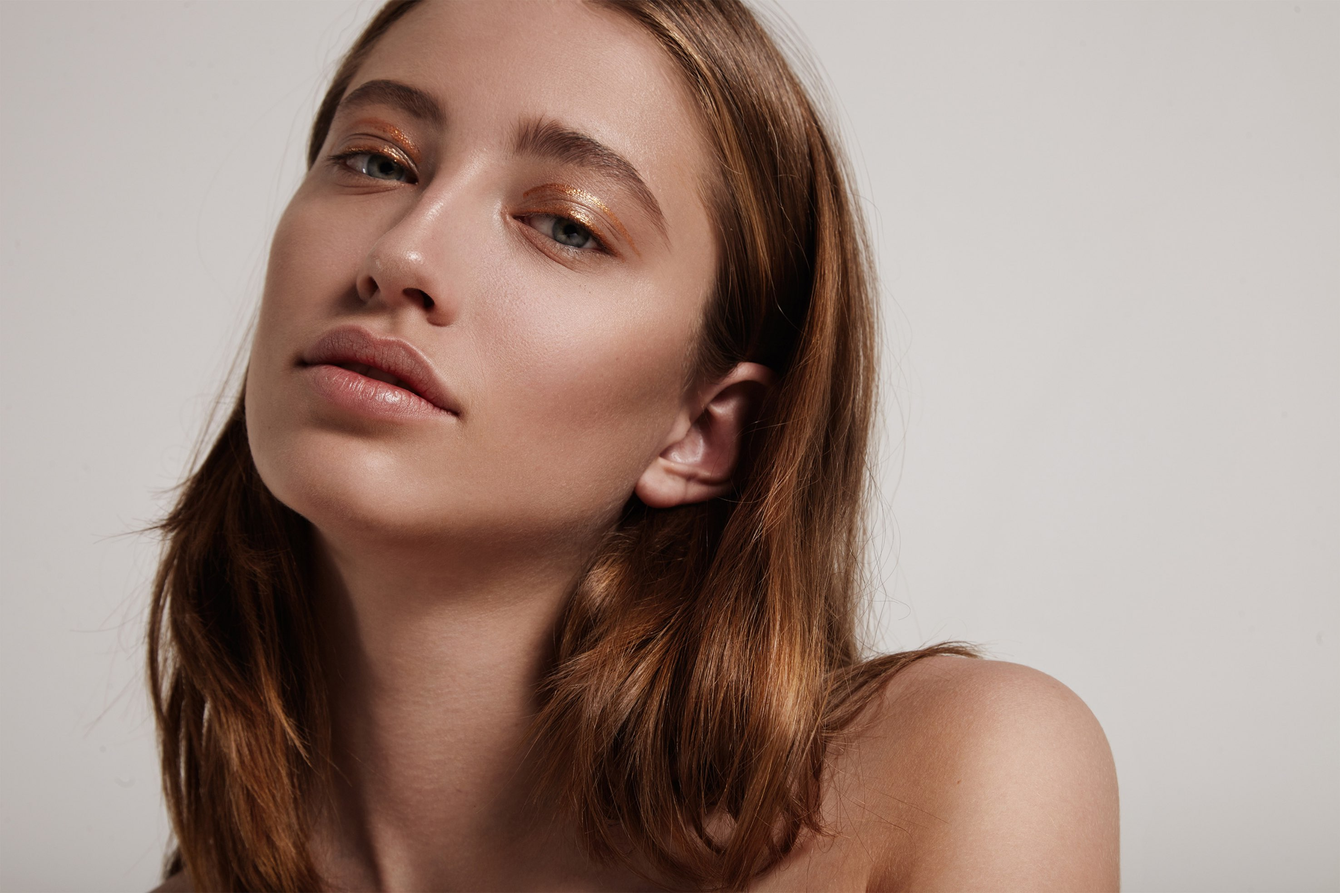
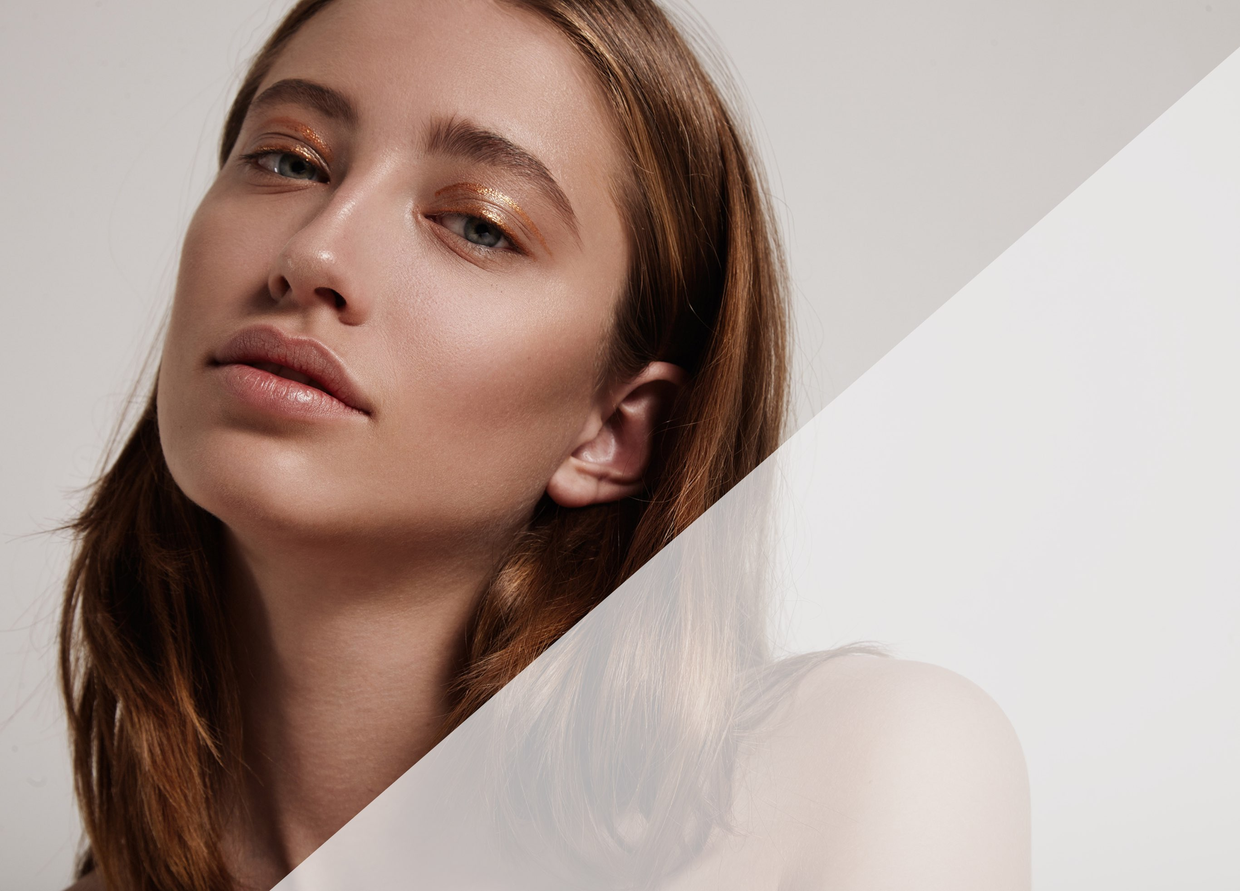
face and event sections are complete

diff --git a/css/theme.min.css b/css/theme.min.css
@@ -1,3 +1,3 @@
-@import "https://use.fontawesome.com/releases/v5.4.1/css/all.css";@import url("https://fonts.googleapis.com/css?family=Lato:300,300i,400,400i,700,700i|Playfair+Display:400,400i,700,700i&display=swap");.color-main{color:#CBA170}.color-dark{color:#333}.color-white{color:#fff}.color-black{color:#000}h1,h2,h4,h5,h6{letter-spacing:0.1rem}h1{font-family:"Playfair Display",serif;font-size:4.0625rem;line-height:4.0625rem;font-weight:400}h2{font-family:"Playfair Display",serif;font-size:3.75rem;line-height:3.75rem;font-weight:400}h3{font-family:"Playfair Display",serif;font-size:2.8125rem;line-height:2.8125rem;font-weight:400}h4,h5,h6{font-family:"Playfair Display",serif}.footer-header{font-family:"Playfair Display",serif;font-size:1rem;line-height:1.5rem;font-weight:600}.body-copy{font-size:1rem;line-height:calc(1rem * 1.5);font-family:"Lato",sans-serif;font-weight:300}.body-copy.is-semibold{font-weight:600}.body-copy.is-bold{font-weight:700}.body-copy.is-italic{font-style:italic}.small-copy{color:#7c7c7c;font-size:16px;line-height:calc(16px * 2);font-family:"Lato",sans-serif;font-weight:300}.lead-copy{font-family:"Lato",sans-serif;font-size:1.25rem;line-height:calc(1.25rem * 1.5);font-weight:300}.wrap-75{width:100%;max-width:650px;margin:0 auto}input{font-family:"Lato",sans-serif;font-weight:300}@media screen and (max-width: 768px){h1{font-size:200% !important}h1 .subscript{font-size:1.2rem}h2{font-size:200%}h1{line-height:2rem}h2,h3{line-height:2rem}}@keyframes menu-fadein{from{display:none;opacity:0}to{display:grid;opacity:1}}.topbar{width:100%;height:35px;height:auto;background-color:#fff}.topbar .containerish{display:grid;grid-template-rows:auto;grid-template-columns:1fr;padding:.2rem 1rem}.topbar .containerish .topbar-link{font-family:"Lato",sans-serif;font-size:15px;font-weight:300;color:#333}.topbar .containerish .topbar-link:hover{color:#CBA170;text-decoration:none}.topbar .containerish .topbar-link-small{font-family:"Lato",sans-serif;font-size:13px;font-weight:300;color:#000}.topbar .containerish .topbar-link-small:hover{color:#CBA170;text-decoration:none}.topbar .containerish .social-link{color:#000;margin-right:0.5rem}.topbar .containerish .social-link:hover{color:#CBA170;text-decoration:none}.topbar .containerish .social-link p{display:inline-block;line-height:0;margin:0;margin-left:0.2rem}.topbar .containerish .social-link:last-child{margin-right:0 !important}.topbar .containerish .col-left{display:none}.topbar .containerish .col-left p{font-family:"Lato",sans-serif;font-size:13px;font-weight:700;margin-bottom:0}.topbar .containerish .col-right{display:flex;justify-content:center}.topbar .containerish .topbar-link{margin-right:1rem}.topbar .containerish .topbar-link-small{margin-right:1rem}.topbar .containerish .topbar-link:last-child{margin-right:0 !important;display:inline-block}.topbar .containerish .topbar-link-small:last-child{margin-right:0 !important;display:inline-block}.ui-btn{font-family:"Lato",sans-serif;font-size:0.9375rem;font-weight:700;font-style:normal;letter-spacing:0.05rem;line-height:1rem;padding:0.6rem 0rem;display:inline-flex;justify-content:center;align-items:center;width:100%;margin-bottom:0.5rem;transition:all 0.3s ease-in-out}.ui-btn-main{background-color:#CBA170;border:1px solid #CBA170;color:#fff}.ui-btn-main:hover{color:#fff;border:1px solid #d9ba95;background-color:#d9ba95;text-decoration:none}.ui-btn-main-ol{background-color:transparent;border:1px solid #CBA170;color:#CBA170}.ui-btn-main-ol:hover{color:#fff;border:1px solid #d9ba95;background-color:#d9ba95;text-decoration:none}.ui-btn-dark{background-color:#333;border:1px solid #333;color:#fff}.ui-btn-dark:hover{color:#fff;background-color:#595959;border:1px solid #595959;text-decoration:none}.ui-btn-dark-ol{background-color:transparent;border:1px solid #333;color:#333}.ui-btn-dark-ol:hover{color:#fff;background-color:#595959;border:1px solid #595959;text-decoration:none}.ui-btn-white{background-color:#fff;border:1px solid #fff;color:#CBA170}.ui-btn-white:hover{color:#CBA170;background-color:#d9d9d9;border:1px solid #d9d9d9;text-decoration:none}.ui-btn-white-ol{background-color:transparent;border:1px solid #fff;color:#fff}.ui-btn-white-ol:hover{color:#CBA170;background-color:#d9d9d9;border:1px solid #d9d9d9;text-decoration:none}.ui-btn-group .ui-btn:not(:last-child){margin-right:0.85rem}.section-learn-more{font-family:"Playfair Display",serif;font-size:20px;font-weight:600;color:#333;transition:all 0.3s ease-in-out}.section-learn-more::after{content:url("../img/right-arrow.png");padding-left:2rem}.section-learn-more:hover{color:#CBA170;text-decoration:none;transition:all 0.3s ease-in-out}.section-links{list-style-type:none;margin:0;padding:0}.section-links li{display:inline-block;margin-right:1rem;margin-bottom:1rem}.section-link{font-family:"Playfair Display",serif;font-size:20px;font-weight:300;color:#333;margin-bottom:1rem;transition:all 0.2s ease-in-out}.section-link::after{content:url("../img/chevron.png");padding-left:10px}.section-link:hover{color:#CBA170;text-decoration:none;transition:all 0.2s ease-in-out}.footer-link{font-family:"Lato",sans-serif;font-size:16px;font-weight:300;color:#333;transition:all 0.3s ease-in-out}.footer-link:hover{color:#CBA170;text-decoration:none;transition:all 0.3s ease-in-out}.img-border{border:5px solid #fff}.img-shadow{box-shadow:0px 0px 10px rgba(0,0,0,0.08)}.img-round{border-radius:10px}.woman-img{width:100%;height:auto;max-width:400px}.containerish{width:100%;max-width:1300px;height:auto;padding:0}.form-control:focus{border-color:#333;box-shadow:inset 0 1px 1px rgba(51,51,51,0.075),0 0 8px rgba(51,51,51,0.6)}.hero{background:url("../../img/hero-section-bg@2x.jpg") center/cover;height:calc(100vh - 35px);max-height:800px}.hero .header .containerish{display:grid;grid-template-columns:1fr 1fr;align-items:center;padding:1rem}.hero .header .containerish .col-left{display:none}.hero .header .containerish .col-mid{display:flex;justify-content:center}.hero .header .containerish .col-mid .header-logo{width:202.4px;height:100.02px}.hero .header .containerish .col-right .menu-toggle{display:flex;justify-content:flex-end;align-items:center;cursor:pointer}.hero .header .containerish .col-right .menu-toggle .menu-label{padding-bottom:0;margin-bottom:0;margin-right:.8rem;font-family:"Lato",sans-serif;font-size:14px}.hero .header .containerish .col-right .menu-toggle .menu-toggle-btn{width:40px;height:auto}.hero .hero-cta{margin-top:1rem;background:url("../../img/hero-bg@2x.jpg") center/cover;padding:40px 20px 20px 20px;height:75vh;max-height:570px;display:flex;flex-direction:column;justify-content:flex-end;align-items:center}.hero .hero-cta .section-info{max-width:930px}.face-event{position:relative}.face-event .face{background:#333;position:relative}.face-event .face .containerish{padding:40px 20px;display:grid;grid-template-columns:1fr}.face-event .face .containerish .section-wrapper{display:grid;grid-template-columns:1fr 1fr;grid-template-rows:auto;grid-gap:1rem}.face-event .face .containerish .section-wrapper .section-info{height:500px;background:#fff;grid-column:1 / -1;position:relative;display:flex;flex-direction:column;justify-content:center;padding:4rem 2rem}.face-event .face .containerish .section-wrapper .section-info .top-right-angle{position:absolute;top:5px;right:5px;height:25px;width:25px}.face-event .face .containerish .section-wrapper .treatment-menu{display:none}.face-event .face .containerish .section-wrapper .info-links{position:absolute;bottom:0;left:0;width:100%}.face-event .face .containerish .section-wrapper .info-links .info-link{background:#fff;color:#CBA170;font-family:"Lato",sans-serif;font-size:14px;font-weight:500;padding:.5rem 2rem;display:block;width:100%;transition:all .3s ease-in-out}.face-event .face .containerish .section-wrapper .info-links .info-link:hover{background:#e6d2bb;color:#fff;text-decoration:none;transition:all .3s ease-in-out}.face-event .face .containerish .section-wrapper .info-links .info-link-inverted{background:#CBA170;color:#fff;font-family:"Lato",sans-serif;font-size:14px;font-weight:500;padding:.5rem 2rem;display:block;width:100%;transition:all .3s ease-in-out}.face-event .face .containerish .section-wrapper .info-links .info-link-inverted:hover{background:#e6d2bb;color:#fff;text-decoration:none;transition:all .3s ease-in-out}footer .footer1{min-height:300px;padding:40px 20px;background:url("../img/footer-bg@2x.jpg") center/cover}footer .footer1 .containerish{display:flex;flex-direction:column;align-items:center;justify-content:center}footer .footer1 .containerish .footer-nav{width:100%;display:flex;flex-direction:column;align-items:center;margin-bottom:2rem}footer .footer1 .containerish .footer-nav .footer-nav-link{font-family:"Lato",sans-serif;color:#333;font-size:16px;font-weight:300}footer .footer1 .containerish .footer-nav .footer-nav-link:hover{color:#CBA170;text-decoration:none}footer .footer1 .containerish .contact-info{margin-bottom:2rem}footer .footer1 .containerish .contact-info .small-copy{text-align:center;line-height:3rem}footer .footer1 .containerish .contact-info .small-copy a{color:#333}footer .footer1 .containerish .contact-info .small-copy:nth-child(2){color:#333;text-align:center}footer .footer1 .containerish .footer-logo{max-width:40px;height:auto;opacity:0.6;margin-bottom:2rem}footer .footer1 .containerish h3{margin-bottom:2rem}footer .footer1 .containerish .footer-form{width:100%;display:grid;grid-row-gap:0.5rem}footer .footer1 .containerish .footer-form input{width:100%}footer .footer1 .containerish .footer-form .ui-btn{justify-self:center}footer .footer1 ::placeholder{letter-spacing:0.05rem;margin-left:0.2rem;padding-left:0.6rem;color:rgba(0,0,0,0.8);font-size:12px}footer .footer2{min-height:150px;display:flex;flex-direction:column;align-items:center;justify-content:center;background:#333;padding:1rem}footer .footer2 .social-icons{margin-bottom:2rem}footer .footer2 .social-icons .social-link{font-size:2rem;color:#CBA170;margin-right:0.5rem}footer .footer2 .social-icons .social-link:hover{color:#d2ad83;text-decoration:none}footer .footer2 .social-icons .social-link:last-child{margin-right:0}footer .footer2 .footer-small-copy{font-family:"Lato",sans-serif;font-size:13px;font-weight:300;color:#fff}footer .footer2 .footer-small-copy a{color:inherit}footer .footer2 .footer-small-copy a:hover{color:#CBA170;text-decoration:none}footer .footer2 .footer-small-copy .footer-pipe{margin:0 1rem}.breadcrumbs{background:#333;font-family:"Lato",sans-serif}.breadcrumbs a{color:#CBA170}.breadcrumbs a:hover{color:#fff}.breadcrumbs .current{color:#fff}.shareme{font-family:"Lato",sans-serif}.shareme a{color:#CBA170}.shareme a:hover{color:#333}.inner-bg{background:url("../img/inner-bg@2x.jpg");background-position:center;background-size:cover}.banner-bg{height:400px;width:100%}.archive-title{font-variant-caps:initial}.banner{background-color:#CBA170}#banner-img-wrap{height:300px;width:100%;overflow:hidden}#banner-img-wrap #banner-img{width:100%;height:auto}#postsection{padding:40px 10px}#postsection h1{color:#333;font-family:"Lato",sans-serif;font-size:3.125rem;line-height:3rem;font-weight:300;font-style:normal}#postsection h2,#postsection h3,#postsection h4,#postsection h5,#postsection h6{color:#CBA170;font-family:"Lato",sans-serif;font-size:2.1875rem;line-height:2.1875rem;font-weight:300;font-style:normal;margin-bottom:1rem}#postsection p{font-weight:300}@media screen and (min-width: 768px){#postsection{padding:80px 10px}}.pagesection h2,.pagesection h3,.pagesection h4{color:#CBA170}.pagesection p:not(a){font-weight:300;margin-bottom:1rem}.pagesection p:last-child(){margin-bottom:0}.pagesection a:not(.ui-btn){color:#CBA170}.pagesection .map-full{width:100%;height:400px}.sec-1,.sec-2,.sec-3,.sec-5,.sec-5{min-height:400px !important;padding:4rem 10px !important}img{width:100%;height:auto}.icons-topbar{width:14px;height:16px}.icons-topbar path{fill:#333}.icons-topbar:hover path{fill:#fff}.social-link-footer{width:13.13px;height:15px}.social-link-footer path{fill:#fff}.social-link-footer:hover path{fill:#fff}.social-link-share{width:14px;height:16px}.social-link-share path{fill:#CBA170}.social-link-share:hover path{fill:#333}.breadcrum-home{width:16px;height:14px}.breadcrum-home path{fill:#fff}.breadcrum-home:hover path{fill:#fff}.icon-close{width:30px;height:30px;cursor:pointer}.icon-close path{fill:#fff}#open-search{padding-right:19px}#search-overlay{display:none;background-color:rgba(255,255,255,0.85);color:#000;height:100vh;width:100%;z-index:9999999;padding:170px 60px 0;position:fixed;top:0}#search-overlay em{display:block;text-align:center;font-size:120%;margin-top:30px;color:#000}#search-overlay a{color:#000;font-weight:700}#search-overlay .form-control::-webkit-input-placeholder{color:#fff}#search-overlay .form-control::-moz-placeholder{color:#fff;opacity:1}#search-overlay .form-control:-ms-input-placeholder{color:#fff}#search-overlay .form-control:-moz-placeholder{color:#fff;opacity:1}.search-results em{display:block;text-align:center;font-size:120%;margin-bottom:60px}.pagination{display:table !important;color:#5c89a9}.pagination a{margin-right:2rem;color:#a19991}.pagination a:hover{color:#2b2b2b}.pagination .current{margin-right:2rem;color:#a19991}.pagination .dots{flex:inherit;margin-right:2rem}.alert-info{width:320px;margin:0 auto;color:#ffffff;background-color:#ff0000;border-color:#bee5eb}.alert-info ul{padding:0;margin:0}.alert-info ul li{list-style:none;padding:0}@media screen and (min-width: 576px){.ui-btn{display:inline-flex;width:auto;padding:0.8rem 1.5rem}}@media screen and (min-width: 768px){.ui-btn{display:inline-flex;width:auto}.hero .header .containerish{display:grid;grid-template-columns:1fr 1fr 1fr;align-items:flex-start}.hero .header .containerish .col-left{display:flex}.hero .header .containerish .col-left .social-link{color:#CBA170;margin-right:1rem}.hero .hero-cta{margin-top:1rem;background:url("../../img/hero-bg@2x.jpg") center/cover;padding:40px 20px 20px 20px;height:75vh;max-height:570px;display:flex;flex-direction:column;justify-content:flex-end;align-items:center}.face-event{position:relative}.face-event .face{background:url("../../img/face-img-1@2x.jpg") center/cover}.face-event .face .containerish{padding:40px 20px;display:grid;grid-template-columns:1fr 1fr}.face-event .face .containerish .section-wrapper{display:grid;grid-template-columns:1fr 1fr;grid-template-rows:auto;grid-gap:1rem;grid-column:2}}@media screen and (min-width: 992px){.ui-btn{display:inline-flex;width:auto;max-width:220px}.containerish{width:100%;height:auto;margin:0 auto}.topbar .containerish{display:grid;grid-template-rows:auto;grid-template-columns:1fr 1fr;align-items:center}.topbar .containerish .col-left{display:flex;grid-row:1;justify-content:flex-start}.topbar .containerish .col-right{display:flex;justify-content:flex-end}.face-event{position:relative}.face-event .face{background:url("../../img/face-img-1@2x.jpg") center/cover}.face-event .face .containerish{padding:40px 20px;display:grid;grid-template-columns:1.5fr 1fr}.face-event .face .containerish .section-wrapper{display:grid;grid-template-columns:1fr 1fr;grid-template-rows:auto;grid-gap:1rem;grid-column:2}}@media screen and (min-width: 1200px){.topbar .containerish{display:grid;grid-template-rows:auto;grid-template-columns:1fr max-content 1fr;align-items:center;padding:.2rem 1rem}.topbar .containerish .col-left{display:flex;grid-row:1;grid-column:2;justify-content:flex-start}.topbar .containerish .col-right{display:flex;justify-content:flex-end;grid-column:3}.face-event{position:relative}.face-event .face{background:url("../../img/face-img-1@2x.jpg") center/cover}.face-event .face .containerish{padding:40px 20px;display:grid;grid-template-columns:1.5fr 1fr}.face-event .face .containerish .section-wrapper{display:grid;grid-template-columns:1fr 1fr;grid-template-rows:auto;grid-gap:1rem;grid-column:2}.face-event .face .containerish .section-wrapper .section-info{height:600px;padding:1rem 5rem 4rem 5rem}.face-event .face .containerish .section-wrapper .info-links .info-link{padding:.5rem 5rem}.face-event .face .containerish .section-wrapper .info-links .info-link-inverted{padding:.5rem 5rem}.face-event .face .containerish .section-wrapper .treatment-menu{background:#333;width:442px;height:auto;position:absolute;left:-400px;bottom:50px;z-index:10;display:none;opacity:0;grid-template-columns:1fr 1fr;grid-gap:1rem;padding:2rem}.face-event .face .containerish .section-wrapper .treatment-menu.show-menu{animation-name:menu-fadein;animation-duration:.2s;animation-direction:normal;animation-timing-function:ease-in-out;display:grid;opacity:1}.face-event .face .containerish .section-wrapper .treatment-menu .menu-close{color:#fff;position:absolute;top:5px;right:10px;cursor:pointer}.face-event .face .containerish .section-wrapper .treatment-menu .menu-close:hover{color:color-main}.face-event .face .containerish .section-wrapper .treatment-menu .treatment-link{display:block;font-family:"Lato",sans-serif;font-size:12px;color:#fff;margin-bottom:.3rem;padding:.3rem}.face-event .face .containerish .section-wrapper .treatment-menu .treatment-link:hover{text-decoration:none;background:#CBA170}.face-event .face .containerish .section-wrapper .treatment-menu .treatment-link::before{content:'+';color:#CBA170;margin-right:.8rem}.face-event .face .containerish .section-wrapper .treatment-menu .col-left{display:flex;flex-direction:column}.face-event .face .containerish .section-wrapper .treatment-menu .col-right{display:flex;flex-direction:column}}@media screen and (min-width: 1400px){.hero .header{padding-top:1rem}}
+@import "https://use.fontawesome.com/releases/v5.4.1/css/all.css";@import url("https://fonts.googleapis.com/css?family=Lato:300,300i,400,400i,700,700i|Playfair+Display:400,400i,700,700i&display=swap");.color-main{color:#CBA170}.color-dark{color:#333}.color-white{color:#fff}.color-black{color:#000}h1,h2,h4,h5,h6{letter-spacing:0.1rem}h1{font-family:"Playfair Display",serif;font-size:4.0625rem;line-height:4.0625rem;font-weight:400}h2{font-family:"Playfair Display",serif;font-size:3.75rem;line-height:3.75rem;font-weight:400}h3{font-family:"Playfair Display",serif;font-size:2.8125rem;line-height:2.8125rem;font-weight:400}h4,h5,h6{font-family:"Playfair Display",serif}.footer-header{font-family:"Playfair Display",serif;font-size:1rem;line-height:1.5rem;font-weight:600}.body-copy{font-size:1rem;line-height:34px;font-family:"Lato",sans-serif;font-weight:300}.body-copy.is-semibold{font-weight:600}.body-copy.is-bold{font-weight:700}.body-copy.is-italic{font-style:italic}.small-copy{color:#7c7c7c;font-size:16px;line-height:calc(16px * 2);font-family:"Lato",sans-serif;font-weight:300}.lead-copy{font-family:"Lato",sans-serif;font-size:1.25rem;line-height:calc(1.25rem * 1.5);font-weight:300}.wrap-75{width:100%;max-width:650px;margin:0 auto}input{font-family:"Lato",sans-serif;font-weight:300}@media screen and (max-width: 768px){h1{font-size:200% !important}h1 .subscript{font-size:1.2rem}h2{font-size:200%}h3{font-size:150%}h1{line-height:2rem}h2,h3{line-height:1rem}}@keyframes menu-fadein{from{display:none;opacity:0}to{display:grid;opacity:1}}.topbar{width:100%;height:35px;height:auto;background-color:#fff}.topbar .containerish{display:grid;grid-template-rows:auto;grid-template-columns:1fr;padding:.2rem 1rem}.topbar .containerish .topbar-link{font-family:"Lato",sans-serif;font-size:15px;font-weight:300;color:#333}.topbar .containerish .topbar-link:hover{color:#CBA170;text-decoration:none}.topbar .containerish .topbar-link-small{font-family:"Lato",sans-serif;font-size:13px;font-weight:300;color:#000}.topbar .containerish .topbar-link-small:hover{color:#CBA170;text-decoration:none}.topbar .containerish .social-link{color:#000;margin-right:0.5rem}.topbar .containerish .social-link:hover{color:#CBA170;text-decoration:none}.topbar .containerish .social-link p{display:inline-block;line-height:0;margin:0;margin-left:0.2rem}.topbar .containerish .social-link:last-child{margin-right:0 !important}.topbar .containerish .col-left{display:none}.topbar .containerish .col-left p{font-family:"Lato",sans-serif;font-size:13px;font-weight:700;margin-bottom:0}.topbar .containerish .col-right{display:flex;justify-content:center}.topbar .containerish .topbar-link{margin-right:1rem}.topbar .containerish .topbar-link-small{margin-right:1rem}.topbar .containerish .topbar-link:last-child{margin-right:0 !important;display:inline-block}.topbar .containerish .topbar-link-small:last-child{margin-right:0 !important;display:inline-block}.ui-btn{font-family:"Lato",sans-serif;font-size:0.9375rem;font-weight:700;font-style:normal;letter-spacing:0.05rem;line-height:1rem;padding:0.6rem 0rem;display:inline-flex;justify-content:center;align-items:center;width:100%;margin-bottom:0.5rem;transition:all 0.3s ease-in-out}.ui-btn-main{background-color:#CBA170;border:1px solid #CBA170;color:#fff}.ui-btn-main:hover{color:#fff;border:1px solid #d9ba95;background-color:#d9ba95;text-decoration:none}.ui-btn-main-ol{background-color:transparent;border:1px solid #CBA170;color:#CBA170}.ui-btn-main-ol:hover{color:#fff;border:1px solid #d9ba95;background-color:#d9ba95;text-decoration:none}.ui-btn-dark{background-color:#333;border:1px solid #333;color:#fff}.ui-btn-dark:hover{color:#fff;background-color:#595959;border:1px solid #595959;text-decoration:none}.ui-btn-dark-ol{background-color:transparent;border:1px solid #333;color:#333}.ui-btn-dark-ol:hover{color:#fff;background-color:#595959;border:1px solid #595959;text-decoration:none}.ui-btn-white{background-color:#fff;border:1px solid #fff;color:#CBA170}.ui-btn-white:hover{color:#CBA170;background-color:#d9d9d9;border:1px solid #d9d9d9;text-decoration:none}.ui-btn-white-ol{background-color:transparent;border:1px solid #fff;color:#fff}.ui-btn-white-ol:hover{color:#CBA170;background-color:#d9d9d9;border:1px solid #d9d9d9;text-decoration:none}.ui-btn-group .ui-btn:not(:last-child){margin-right:0.85rem}.section-learn-more{font-family:"Playfair Display",serif;font-size:20px;font-weight:600;color:#333;transition:all 0.3s ease-in-out}.section-learn-more::after{content:url("../img/right-arrow.png");padding-left:2rem}.section-learn-more:hover{color:#CBA170;text-decoration:none;transition:all 0.3s ease-in-out}.section-links{list-style-type:none;margin:0;padding:0}.section-links li{display:inline-block;margin-right:1rem;margin-bottom:1rem}.section-link{font-family:"Playfair Display",serif;font-size:20px;font-weight:300;color:#333;margin-bottom:1rem;transition:all 0.2s ease-in-out}.section-link::after{content:url("../img/chevron.png");padding-left:10px}.section-link:hover{color:#CBA170;text-decoration:none;transition:all 0.2s ease-in-out}.footer-link{font-family:"Lato",sans-serif;font-size:16px;font-weight:300;color:#333;transition:all 0.3s ease-in-out}.footer-link:hover{color:#CBA170;text-decoration:none;transition:all 0.3s ease-in-out}.img-border{border:5px solid #fff}.img-shadow{box-shadow:0px 0px 10px rgba(0,0,0,0.08)}.img-round{border-radius:10px}.woman-img{width:100%;height:auto;max-width:400px}.containerish{width:100%;max-width:1300px;height:auto;padding:0}.form-control:focus{border-color:#333;box-shadow:inset 0 1px 1px rgba(51,51,51,0.075),0 0 8px rgba(51,51,51,0.6)}.hero{background:url("../../img/hero-section-bg@2x.jpg") center/cover;height:calc(100vh - 35px);max-height:800px}.hero .header .containerish{display:grid;grid-template-columns:1fr 1fr;align-items:center;padding:1rem}.hero .header .containerish .col-left{display:none}.hero .header .containerish .col-mid{display:flex;justify-content:center}.hero .header .containerish .col-mid .header-logo{width:202.4px;height:100.02px}.hero .header .containerish .col-right .menu-toggle{display:flex;justify-content:flex-end;align-items:center;cursor:pointer}.hero .header .containerish .col-right .menu-toggle .menu-label{padding-bottom:0;margin-bottom:0;margin-right:.8rem;font-family:"Lato",sans-serif;font-size:14px}.hero .header .containerish .col-right .menu-toggle .menu-toggle-btn{width:40px;height:auto}.hero .hero-cta{margin-top:1rem;background:url("../../img/hero-bg@2x.jpg") center/cover;padding:40px 20px 20px 20px;height:75vh;max-height:570px;display:flex;flex-direction:column;justify-content:flex-end;align-items:center}.hero .hero-cta .section-info{max-width:930px}.face-event{position:relative;overflow:hidden}.face-event .face{background:#333;position:relative}.face-event .face .diagonal{display:none}.face-event .face .containerish{padding:40px 20px;display:grid;grid-template-columns:1fr}.face-event .face .containerish .section-wrapper{display:grid;grid-template-columns:1fr 1fr;grid-template-rows:auto;grid-gap:1rem}.face-event .face .containerish .section-wrapper .section-info{height:500px;background:#fff;grid-column:1 / -1;position:relative;display:flex;flex-direction:column;justify-content:center;padding:4rem 2rem}.face-event .face .containerish .section-wrapper .section-info .top-right-angle{position:absolute;top:5px;right:5px;height:25px;width:25px}.face-event .face .containerish .section-wrapper .treatment-menu{display:none}.face-event .face .containerish .section-wrapper .info-links{position:absolute;bottom:0;left:0;width:100%}.face-event .face .containerish .section-wrapper .info-links .info-link{background:#fff;color:#CBA170;font-family:"Lato",sans-serif;font-size:14px;font-weight:500;padding:.5rem 2rem;display:block;width:100%;transition:all .3s ease-in-out}.face-event .face .containerish .section-wrapper .info-links .info-link:hover{background:#e6d2bb;color:#fff;text-decoration:none;transition:all .3s ease-in-out}.face-event .face .containerish .section-wrapper .info-links .info-link-inverted{background:#CBA170;color:#fff;font-family:"Lato",sans-serif;font-size:14px;font-weight:500;padding:.5rem 2rem;display:block;width:100%;transition:all .3s ease-in-out}.face-event .face .containerish .section-wrapper .info-links .info-link-inverted:hover{background:#e6d2bb;color:#fff;text-decoration:none;transition:all .3s ease-in-out}.face-event .event{position:relative;background:url("../../img/event-bg@2x.jpg") top/cover}.face-event .event .containerish{display:grid}.face-event .event .containerish .col-left{height:300px;background:url("../../img/event-img@2x.jpg") center/cover}.face-event .event .containerish .col-right{height:auto;background:#fff;padding:40px 20px}footer .footer1{min-height:300px;padding:40px 20px;background:url("../img/footer-bg@2x.jpg") center/cover}footer .footer1 .containerish{display:flex;flex-direction:column;align-items:center;justify-content:center}footer .footer1 .containerish .footer-nav{width:100%;display:flex;flex-direction:column;align-items:center;margin-bottom:2rem}footer .footer1 .containerish .footer-nav .footer-nav-link{font-family:"Lato",sans-serif;color:#333;font-size:16px;font-weight:300}footer .footer1 .containerish .footer-nav .footer-nav-link:hover{color:#CBA170;text-decoration:none}footer .footer1 .containerish .contact-info{margin-bottom:2rem}footer .footer1 .containerish .contact-info .small-copy{text-align:center;line-height:3rem}footer .footer1 .containerish .contact-info .small-copy a{color:#333}footer .footer1 .containerish .contact-info .small-copy:nth-child(2){color:#333;text-align:center}footer .footer1 .containerish .footer-logo{max-width:40px;height:auto;opacity:0.6;margin-bottom:2rem}footer .footer1 .containerish h3{margin-bottom:2rem}footer .footer1 .containerish .footer-form{width:100%;display:grid;grid-row-gap:0.5rem}footer .footer1 .containerish .footer-form input{width:100%}footer .footer1 .containerish .footer-form .ui-btn{justify-self:center}footer .footer1 ::placeholder{letter-spacing:0.05rem;margin-left:0.2rem;padding-left:0.6rem;color:rgba(0,0,0,0.8);font-size:12px}footer .footer2{min-height:150px;display:flex;flex-direction:column;align-items:center;justify-content:center;background:#333;padding:1rem}footer .footer2 .social-icons{margin-bottom:2rem}footer .footer2 .social-icons .social-link{font-size:2rem;color:#CBA170;margin-right:0.5rem}footer .footer2 .social-icons .social-link:hover{color:#d2ad83;text-decoration:none}footer .footer2 .social-icons .social-link:last-child{margin-right:0}footer .footer2 .footer-small-copy{font-family:"Lato",sans-serif;font-size:13px;font-weight:300;color:#fff}footer .footer2 .footer-small-copy a{color:inherit}footer .footer2 .footer-small-copy a:hover{color:#CBA170;text-decoration:none}footer .footer2 .footer-small-copy .footer-pipe{margin:0 1rem}.breadcrumbs{background:#333;font-family:"Lato",sans-serif}.breadcrumbs a{color:#CBA170}.breadcrumbs a:hover{color:#fff}.breadcrumbs .current{color:#fff}.shareme{font-family:"Lato",sans-serif}.shareme a{color:#CBA170}.shareme a:hover{color:#333}.inner-bg{background:url("../img/inner-bg@2x.jpg");background-position:center;background-size:cover}.banner-bg{height:400px;width:100%}.archive-title{font-variant-caps:initial}.banner{background-color:#CBA170}#banner-img-wrap{height:300px;width:100%;overflow:hidden}#banner-img-wrap #banner-img{width:100%;height:auto}#postsection{padding:40px 10px}#postsection h1{color:#333;font-family:"Lato",sans-serif;font-size:3.125rem;line-height:3rem;font-weight:300;font-style:normal}#postsection h2,#postsection h3,#postsection h4,#postsection h5,#postsection h6{color:#CBA170;font-family:"Lato",sans-serif;font-size:2.1875rem;line-height:2.1875rem;font-weight:300;font-style:normal;margin-bottom:1rem}#postsection p{font-weight:300}@media screen and (min-width: 768px){#postsection{padding:80px 10px}}.pagesection h2,.pagesection h3,.pagesection h4{color:#CBA170}.pagesection p:not(a){font-weight:300;margin-bottom:1rem}.pagesection p:last-child(){margin-bottom:0}.pagesection a:not(.ui-btn){color:#CBA170}.pagesection .map-full{width:100%;height:400px}.sec-1,.sec-2,.sec-3,.sec-5,.sec-5{min-height:400px !important;padding:4rem 10px !important}img{width:100%;height:auto}.icons-topbar{width:14px;height:16px}.icons-topbar path{fill:#333}.icons-topbar:hover path{fill:#fff}.social-link-footer{width:13.13px;height:15px}.social-link-footer path{fill:#fff}.social-link-footer:hover path{fill:#fff}.social-link-share{width:14px;height:16px}.social-link-share path{fill:#CBA170}.social-link-share:hover path{fill:#333}.breadcrum-home{width:16px;height:14px}.breadcrum-home path{fill:#fff}.breadcrum-home:hover path{fill:#fff}.icon-close{width:30px;height:30px;cursor:pointer}.icon-close path{fill:#fff}#open-search{padding-right:19px}#search-overlay{display:none;background-color:rgba(255,255,255,0.85);color:#000;height:100vh;width:100%;z-index:9999999;padding:170px 60px 0;position:fixed;top:0}#search-overlay em{display:block;text-align:center;font-size:120%;margin-top:30px;color:#000}#search-overlay a{color:#000;font-weight:700}#search-overlay .form-control::-webkit-input-placeholder{color:#fff}#search-overlay .form-control::-moz-placeholder{color:#fff;opacity:1}#search-overlay .form-control:-ms-input-placeholder{color:#fff}#search-overlay .form-control:-moz-placeholder{color:#fff;opacity:1}.search-results em{display:block;text-align:center;font-size:120%;margin-bottom:60px}.pagination{display:table !important;color:#5c89a9}.pagination a{margin-right:2rem;color:#a19991}.pagination a:hover{color:#2b2b2b}.pagination .current{margin-right:2rem;color:#a19991}.pagination .dots{flex:inherit;margin-right:2rem}.alert-info{width:320px;margin:0 auto;color:#ffffff;background-color:#ff0000;border-color:#bee5eb}.alert-info ul{padding:0;margin:0}.alert-info ul li{list-style:none;padding:0}@media screen and (min-width: 576px){.ui-btn{display:inline-flex;width:auto;padding:0.8rem 1.5rem}}@media screen and (min-width: 768px){.ui-btn{display:inline-flex;width:auto}.hero .header .containerish{display:grid;grid-template-columns:1fr 1fr 1fr;align-items:flex-start}.hero .header .containerish .col-left{display:flex}.hero .header .containerish .col-left .social-link{color:#CBA170;margin-right:1rem}.hero .hero-cta{margin-top:1rem;background:url("../../img/hero-bg@2x.jpg") center/cover;padding:40px 20px 20px 20px;height:75vh;max-height:570px;display:flex;flex-direction:column;justify-content:flex-end;align-items:center}.face-event{position:relative}.face-event .face{background:url("../../img/face-img-1@2x.jpg") center/cover}.face-event .face .containerish{padding:40px 20px;display:grid;grid-template-columns:1fr 1fr}.face-event .face .containerish .section-wrapper{display:grid;grid-template-columns:1fr 1fr;grid-template-rows:auto;grid-gap:1rem;grid-column:2}.face-event .event{padding:2rem 1rem}.face-event .event .containerish{display:grid;height:300px;grid-template-columns:1fr 1.5fr}.face-event .event .containerish .col-left{height:300px;background:url("../../img/event-img@2x.jpg") center/cover}.face-event .event .containerish .col-right{height:300px;background:#fff;padding:40px 20px}.face-event .event .containerish .col-right .section-info h2{font-size:35px;line-height:20px}.face-event .event .containerish .col-right .section-info h3{font-size:20px;line-height:10px}.face-event .event .containerish .col-right .section-info .ui-btn{margin-bottom:0}}@media screen and (min-width: 992px){.ui-btn{display:inline-flex;width:auto;max-width:220px}.containerish{width:100%;height:auto;margin:0 auto}.topbar .containerish{display:grid;grid-template-rows:auto;grid-template-columns:1fr 1fr;align-items:center}.topbar .containerish .col-left{display:flex;grid-row:1;justify-content:flex-start}.topbar .containerish .col-right{display:flex;justify-content:flex-end}.face-event{position:relative}.face-event .face{background:url("../../img/face-img-1@2x.jpg") center/cover}.face-event .face .containerish{padding:40px 20px;display:grid;grid-template-columns:1.5fr 1fr}.face-event .face .containerish .section-wrapper{display:grid;grid-template-columns:1fr 1fr;grid-template-rows:auto;grid-gap:1rem;grid-column:2}.face-event .event{padding:4rem 1rem}.face-event .event .containerish{display:grid;height:auto;grid-template-columns:1fr 1.5fr;align-items:center}.face-event .event .containerish .col-left{height:400px;background:url("../../img/event-img@2x.jpg") center/cover}.face-event .event .containerish .col-right{height:400px;background:#fff;padding:40px 20px;display:flex;align-items:center}.face-event .event .containerish .col-right .section-info h2{font-size:45px;line-height:45px}.face-event .event .containerish .col-right .section-info h3{font-size:30px;line-height:30px}.face-event .event .containerish .col-right .section-info .ui-btn{margin-bottom:0}}@media screen and (min-width: 1200px){.topbar .containerish{display:grid;grid-template-rows:auto;grid-template-columns:1fr max-content 1fr;align-items:center;padding:.2rem 1rem}.topbar .containerish .col-left{display:flex;grid-row:1;grid-column:2;justify-content:flex-start}.topbar .containerish .col-right{display:flex;justify-content:flex-end;grid-column:3}.face-event{position:relative}.face-event .face{background:url("../../img/face-img-1@2x.jpg") center/cover;overflow:visible}.face-event .face .diagonal{display:block;position:absolute;top:0;left:0;width:100%;height:100%;z-index:5}.face-event .face .containerish{padding:40px 20px;display:grid;grid-template-columns:1.5fr 1fr}.face-event .face .containerish .section-wrapper{display:grid;grid-template-columns:1fr 1fr;grid-template-rows:auto;grid-gap:1rem;grid-column:2}.face-event .face .containerish .section-wrapper .section-info{height:600px;padding:1rem 5rem 4rem 5rem}.face-event .face .containerish .section-wrapper .info-links .info-link{padding:.5rem 5rem}.face-event .face .containerish .section-wrapper .info-links .info-link-inverted{padding:.5rem 5rem}.face-event .face .containerish .section-wrapper .treatment-menu{background:#333;width:442px;height:auto;position:absolute;left:-400px;bottom:50px;z-index:10;display:none;opacity:0;grid-template-columns:1fr 1fr;grid-gap:1rem;padding:2rem}.face-event .face .containerish .section-wrapper .treatment-menu.show-menu{animation-name:menu-fadein;animation-duration:.2s;animation-direction:normal;animation-timing-function:ease-in-out;display:grid;opacity:1}.face-event .face .containerish .section-wrapper .treatment-menu .menu-close{color:#fff;position:absolute;top:5px;right:10px;cursor:pointer}.face-event .face .containerish .section-wrapper .treatment-menu .menu-close:hover{color:color-main}.face-event .face .containerish .section-wrapper .treatment-menu .treatment-link{display:block;font-family:"Lato",sans-serif;font-size:12px;color:#fff;margin-bottom:.3rem;padding:.3rem}.face-event .face .containerish .section-wrapper .treatment-menu .treatment-link:hover{text-decoration:none;background:#CBA170}.face-event .face .containerish .section-wrapper .treatment-menu .treatment-link::before{content:'+';color:#CBA170;margin-right:.8rem}.face-event .face .containerish .section-wrapper .treatment-menu .col-left{display:flex;flex-direction:column}.face-event .face .containerish .section-wrapper .treatment-menu .col-right{display:flex;flex-direction:column}.face-event .event{padding:4rem 1rem}.face-event .event .containerish{display:grid;height:auto;grid-template-columns:1fr 1fr;align-items:center}.face-event .event .containerish .col-right .section-info{padding:4rem 2rem}}@media screen and (min-width: 1400px){.hero .header{padding-top:1rem}}
 
 /*# sourceMappingURL=theme.min.css.map */

diff --git a/scss/partials/_responsive.scss b/scss/partials/_responsive.scss
@@ -58,6 +58,8 @@
   }
 
   /* FACE AND EVENT SECTION */
+
+  /* FACE */
   .face-event {
     position: relative;
 
@@ -82,6 +84,42 @@
     }
 
     /* EVENT */
+    .event {
+      padding: 2rem 1rem;
+
+      .containerish {
+        display: grid;
+        height: 300px;
+        grid-template-columns: 1fr 1.5fr;
+
+        .col-left {
+          height: 300px;
+          background: url('../../img/event-img@2x.jpg') center / cover;
+        }
+
+        .col-right {
+          height: 300px;
+          background: $color-white;
+          padding: 40px 20px;
+
+          .section-info {
+            h2 {
+              font-size: 35px;
+              line-height: 20px;
+            }
+
+            h3 {
+              font-size: 20px;
+              line-height: 10px;
+            }
+
+            .ui-btn {
+              margin-bottom: 0;
+            }
+          }
+        }
+      }
+    }
 
   }
 }
@@ -151,6 +189,46 @@
     }
 
     /* EVENT */
+    .event {
+      padding: 4rem 1rem;
+
+      .containerish {
+        display: grid;
+        height: auto;
+        grid-template-columns: 1fr 1.5fr;
+        align-items: center;
+
+        .col-left {
+          height: 400px;
+          background: url('../../img/event-img@2x.jpg') center / cover;
+        }
+
+        .col-right {
+          height: 400px;
+          background: $color-white;
+          padding: 40px 20px;
+          display: flex;
+          align-items: center;
+
+          .section-info {
+
+            h2 {
+              font-size: 45px;
+              line-height: 45px;
+            }
+
+            h3 {
+              font-size: 30px;
+              line-height: 30px;
+            }
+
+            .ui-btn {
+              margin-bottom: 0;
+            }
+          }
+        }
+      }
+    }
 
   }
 }
@@ -192,6 +270,18 @@
     /* FACE */
     .face {
       background: url('../../img/face-img-1@2x.jpg') center / cover;
+      // height: 200vh;
+      overflow: visible;
+
+      .diagonal {
+        display: block;
+        position: absolute;
+        top: 0;
+        left: 0;
+        width: 100%;
+        height: 100%;
+        z-index: 5;
+      }
 
       .containerish {
         padding: 40px 20px;
@@ -291,6 +381,22 @@
     }
 
     /* EVENT */
+    .event {
+      padding: 4rem 1rem;
+
+      .containerish {
+        display: grid;
+        height: auto;
+        grid-template-columns: 1fr 1fr;
+        align-items: center;
+
+        .col-right {
+          .section-info {
+            padding: 4rem 2rem;
+          }
+        }
+      }
+    }
 
   }
 }

diff --git a/index.html b/index.html
@@ -129,15 +129,15 @@
                 <a href="#" class="treatment-link">Pregnancy Facial</a>
               </div>
               <div class="col-right">
-                <a href="#" class="treatment-link">Custom Treatment</a>
-                <a href="#" class="treatment-link">Custom Hydrafacial</a>
-                <a href="#" class="treatment-link">Dermalinfusion</a>
-                <a href="#" class="treatment-link">IPL Photofacial</a>
-                <a href="#" class="treatment-link">Genesis Therapy Treatment</a>
-                <a href="#" class="treatment-link">Dermaplaning</a>
-                <a href="#" class="treatment-link">LED Therapy</a>
-                <a href="#" class="treatment-link">Coolift Facial</a>
-                <a href="#" class="treatment-link">Pregnancy Facial</a>
+                <a href="#" class="treatment-link">Mini Facial</a>
+                <a href="#" class="treatment-link">Chemical Peel</a>
+                <a href="#" class="treatment-link">VI Peel</a>
+                <a href="#" class="treatment-link">Cosmelan Mask</a>
+                <a href="#" class="treatment-link">Clear & Brilliant</a>
+                <a href="#" class="treatment-link">Ultherapy</a>
+                <a href="#" class="treatment-link">Vivace</a>
+                <a href="#" class="treatment-link">NuEra Tight</a>
+                <a href="#" class="treatment-link">Collagen Induction</a>
               </div>
             </div>
           </div>
@@ -148,6 +148,23 @@
     <!-- /face section -->
 
     <!-- event section -->
+    <div class="event">
+      <div class="containerish">
+        <div class="col-left"></div>
+        <div class="col-right">
+          <div class="section-info">
+            <h2 class="color-dark mb-4">Facial & Bubbly Event</h2>
+            <h3 class="color-main mb-4">September 25th, 2019 at 5pm</h3>
+            <p class="body-copy color-dark">
+              Join us for our exclusive Facial and Bubbly event — an opportunity to connect with the JTAV community.
+              Relax, meet some new friends,
+              and beautify!
+            </p>
+            <a href="#" class="ui-btn ui-btn-dark-ol">RSVP NOW</a>
+          </div>
+        </div>
+      </div>
+    </div>
     <!-- /event section -->
 
   </section>

diff --git a/scss/partials/_sections.scss b/scss/partials/_sections.scss
@@ -97,11 +97,16 @@
 /* -------------------------------------------------------------------------- */
 .face-event {
   position: relative;
+  overflow: hidden;
 
   /* FACE */
   .face {
     background: $color-dark;
     position: relative;
+
+    .diagonal {
+      display: none;
+    }
 
     .containerish {
       padding: 40px 20px;
@@ -187,7 +192,28 @@
   }
 
   /* EVENT */
+  .event {
+    position: relative;
 
+    background: url('../../img/event-bg@2x.jpg') top / cover;
+
+    .containerish {
+      display: grid;
+
+      .col-left {
+        height: 300px;
+        background: url('../../img/event-img@2x.jpg') center / cover;
+      }
+
+      .col-right {
+        height: auto;
+        background: $color-white;
+        padding: 40px 20px;
+
+        .section-info {}
+      }
+    }
+  }
 }
 
 /* -------------------------------------------------------------------------- */

diff --git a/js/app.min.js b/js/app.min.js
@@ -1,1 +1,1 @@
-"use strict";var treatmentMenuLink=document.querySelector(".info-link"),treatmentMenu=document.querySelector(".treatment-menu"),menuClose=document.querySelector(".menu-close");treatmentMenuLink.addEventListener("click",function(){treatmentMenu.classList.add("show-menu"),treatmentMenuLink.preventDefault()}),menuClose.addEventListener("click",function(){treatmentMenu.classList.remove("show-menu")});
+"use strict";var treatmentMenuLink=document.querySelector(".info-link"),treatmentMenu=document.querySelector(".treatment-menu"),menuClose=document.querySelector(".menu-close");treatmentMenuLink.addEventListener("click",function(e){treatmentMenu.classList.add("show-menu")}),menuClose.addEventListener("click",function(){treatmentMenu.classList.remove("show-menu")});

diff --git a/js/app.js b/js/app.js
@@ -2,10 +2,10 @@ const treatmentMenuLink = document.querySelector('.info-link'),
   treatmentMenu = document.querySelector('.treatment-menu'),
   menuClose = document.querySelector('.menu-close');
 
-treatmentMenuLink.addEventListener('click', () => {
+treatmentMenuLink.addEventListener('click', (e) => {
   treatmentMenu.classList.add('show-menu');
-  treatmentMenuLink.preventDefault();
+  // target.preventDefault();
 });
 menuClose.addEventListener('click', () => {
   treatmentMenu.classList.remove('show-menu');
-})
+});

diff --git a/scss/partials/_typography.scss b/scss/partials/_typography.scss
@@ -57,7 +57,7 @@ h6 {
 //Body Text
 .body-copy {
   font-size: 1rem;
-  line-height: calc(1rem * 1.5);
+  line-height: 34px;
   font-family: $font-primary;
   font-weight: 300;
 
@@ -133,13 +133,17 @@ input {
     font-size: 200%;
   }
 
+  h3 {
+    font-size: 150%;
+  }
+
   h1 {
     line-height: 2rem;
   }
 
   h2,
   h3 {
-    line-height: 2rem;
+    line-height: 1rem;
   }
 
   // .testimonial-blurb {
